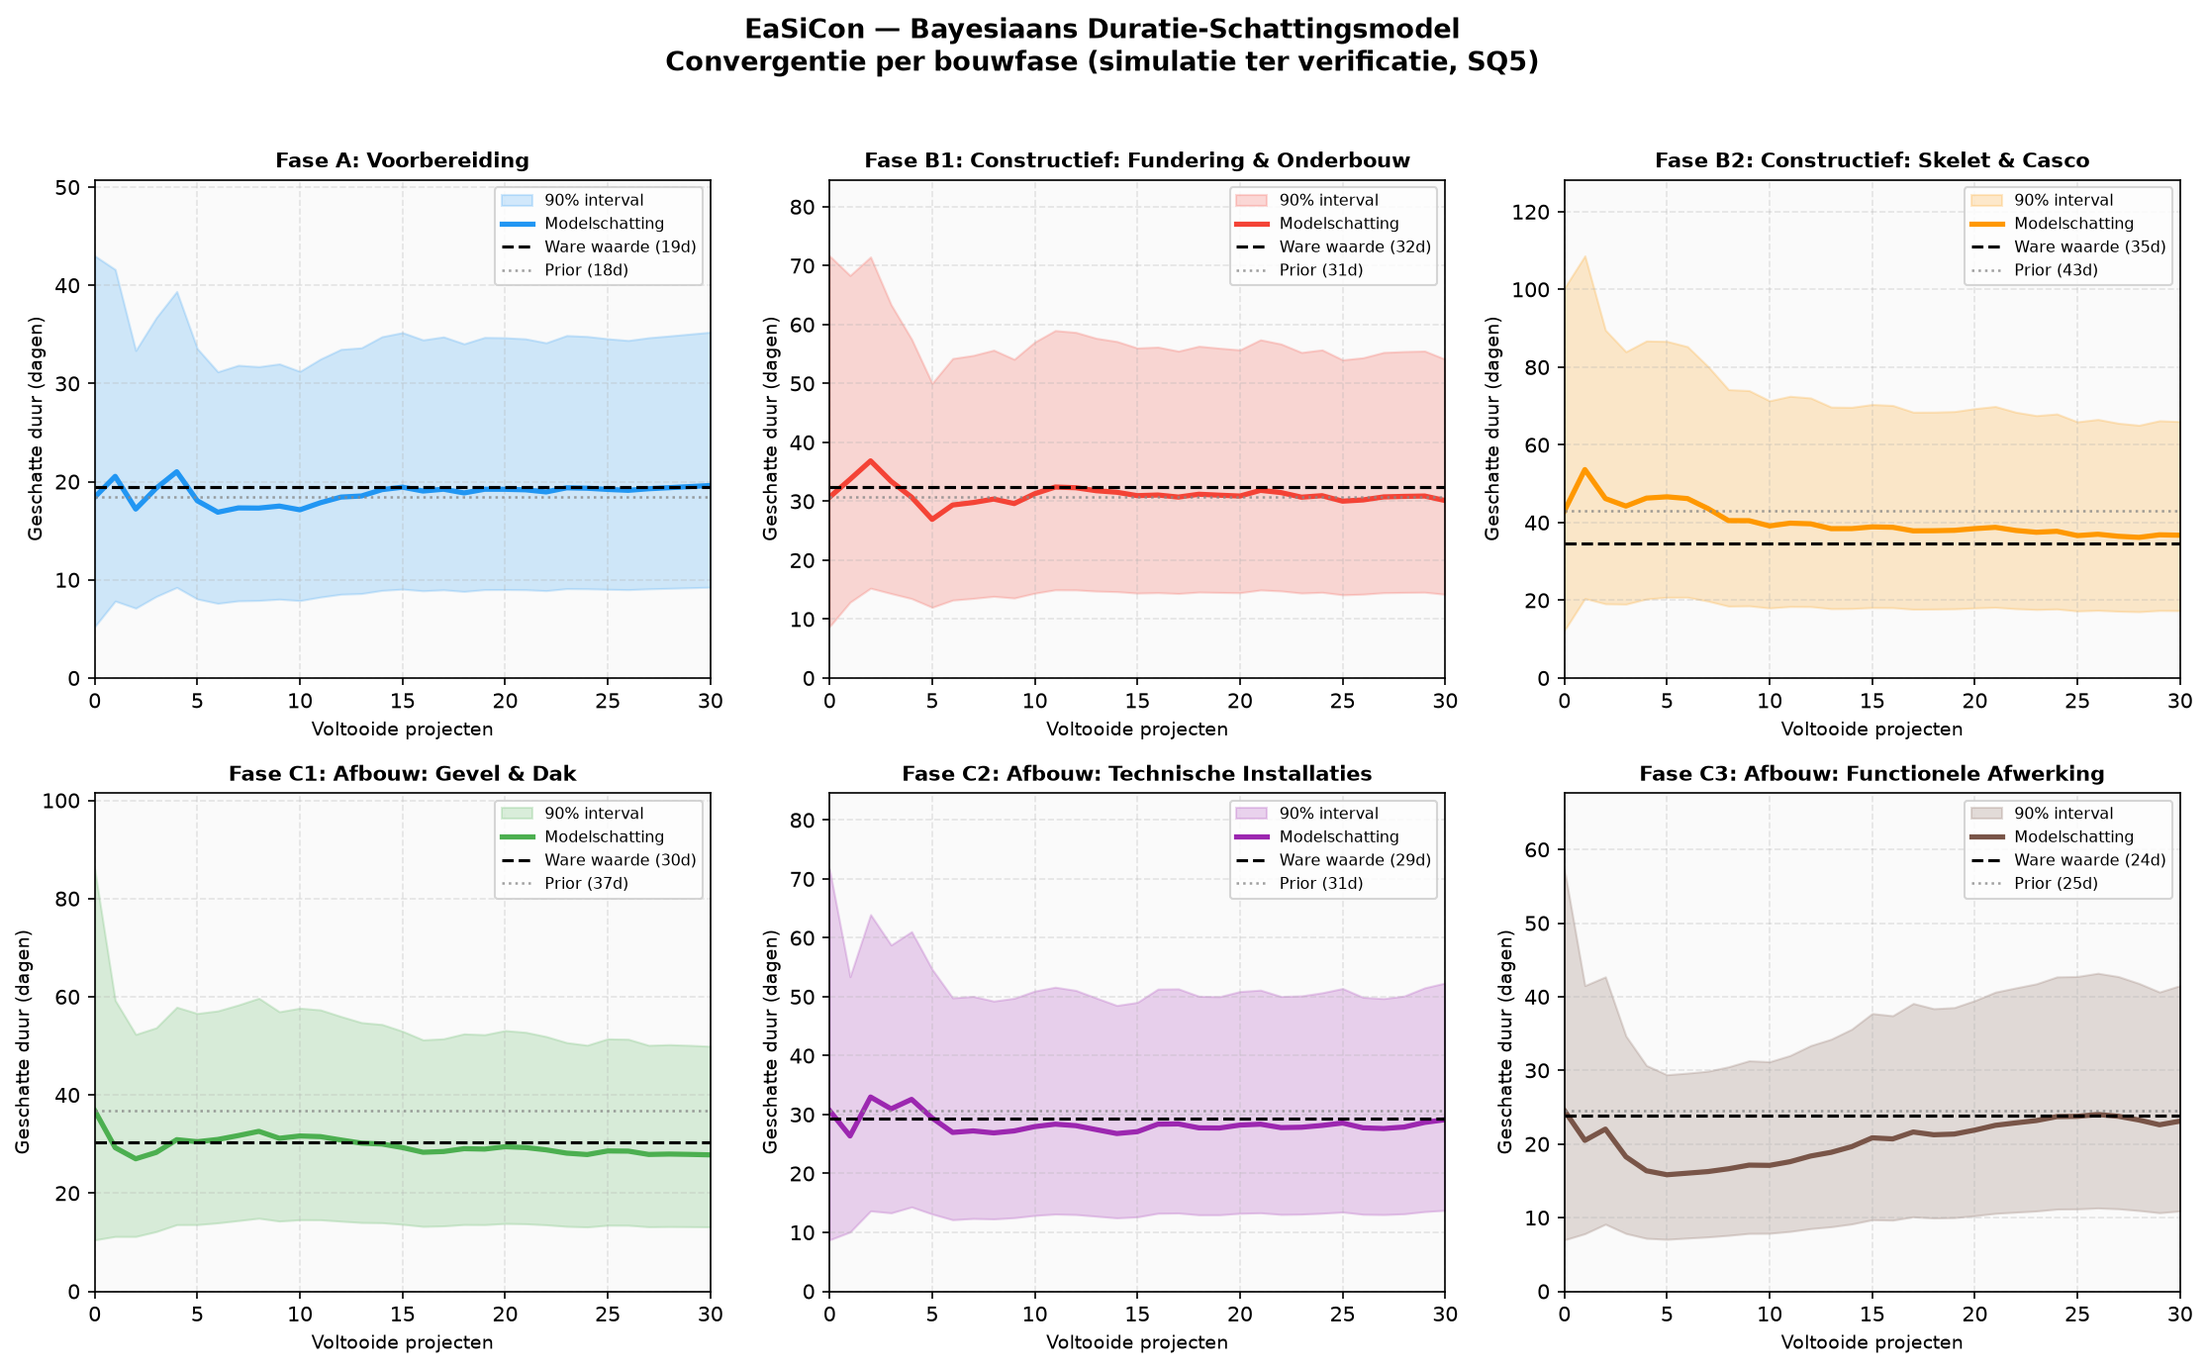
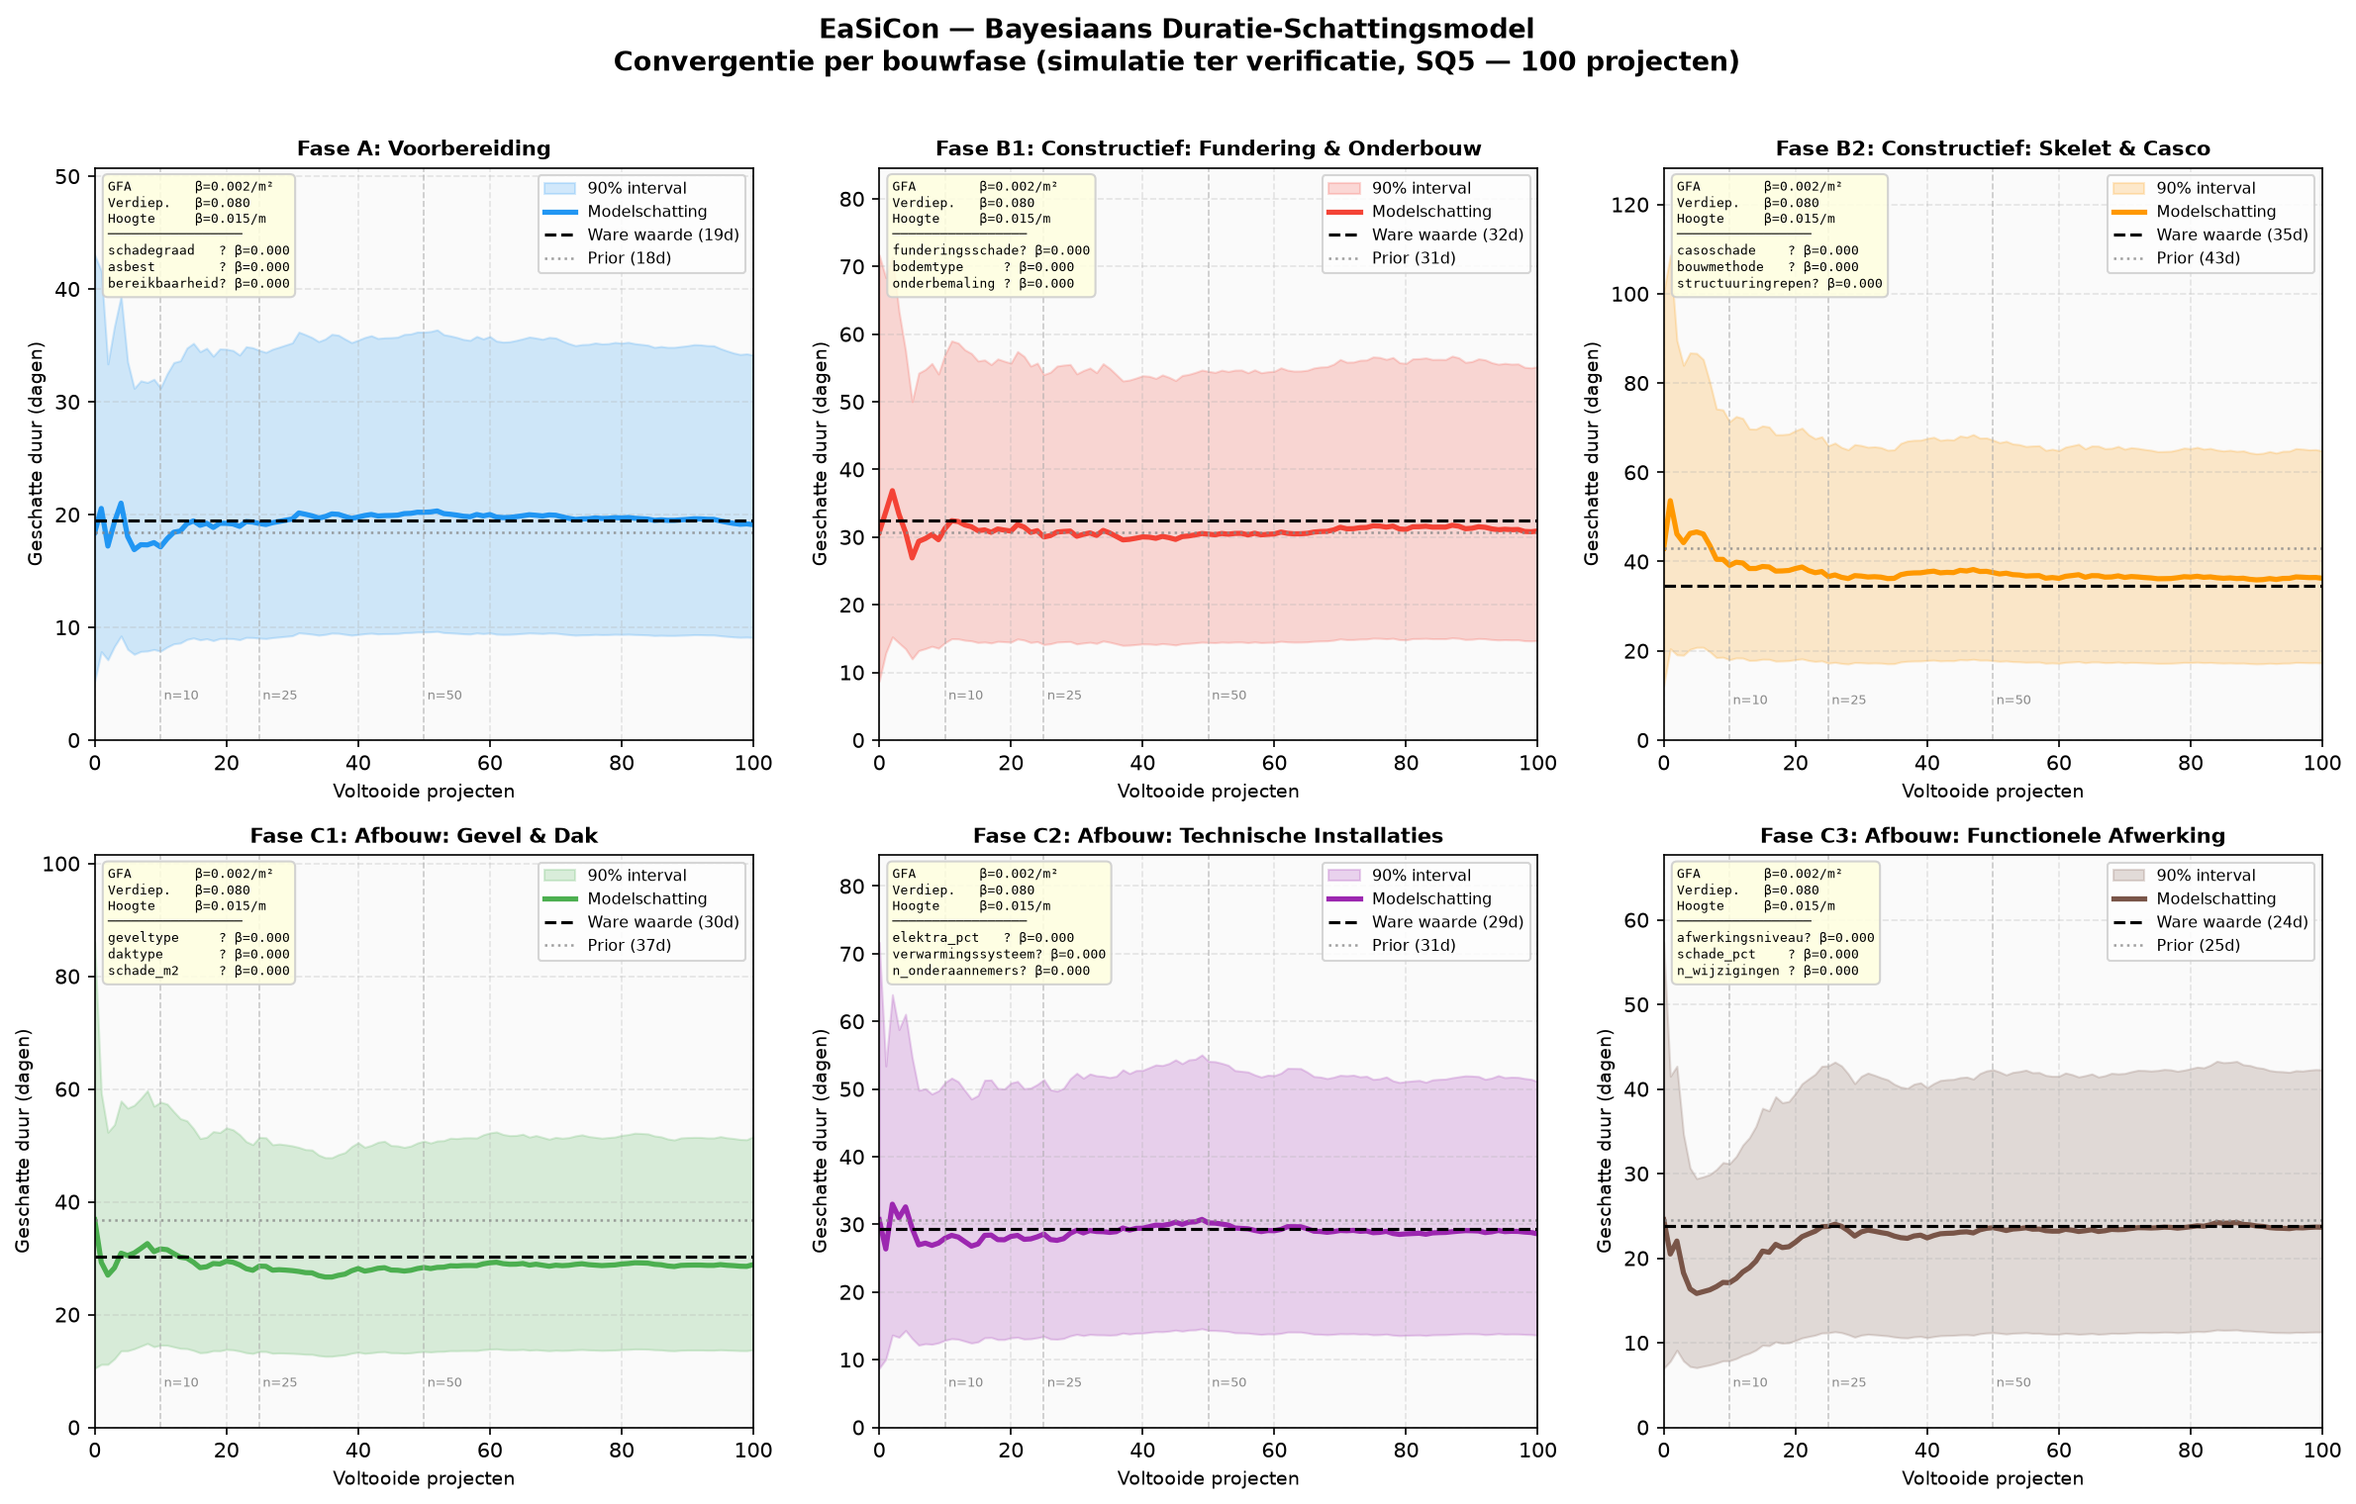
auto-save

diff --git a/easicon_model.py b/easicon_model.py
@@ -15,9 +15,10 @@ Theorie (zie thesis H6, Kim & Reinschmidt 2009, Gelman et al. 2013):
 
 Gebruik : python easicon_model.py
 Output  :
-  1. Tabel — huidige schatting per fase in dagen
+  1. Tabel — huidige schatting per fase in dagen, incl. covariaten
   2. TODO-lijst — openstaande punten na interviews
-  3. easicon_resultaten.png — convergentiegrafiek per fase (SQ5-verificatie)
+  3. easicon_resultaten.png  — convergentiegrafiek per fase (100 projecten)
+  4. easicon_zekerheid.png   — zekerheidstoename per fase (tau + intervalsbreedte)
 
 Fases (NEN 2574 + Flapper 2005):
   A   Voorbereiding
@@ -28,9 +29,14 @@ Fases (NEN 2574 + Flapper 2005):
   C3  Afbouw: Functionele Afwerking
 """
 
+import sys
 import numpy as np
 from scipy import stats
 import matplotlib.pyplot as plt
+
+# Zorg dat de Windows-console UTF-8 uitvoert (box-tekens, β, enz.)
+if sys.stdout.encoding and sys.stdout.encoding.lower() != "utf-8":
+    sys.stdout.reconfigure(encoding="utf-8")
 
 # ==============================================================================
 # SECTIE 1: INSTELLINGEN
@@ -329,7 +335,7 @@ def simuleer_projecten(ware_mu, sigma, n, seed=42):
     return np.exp(rng.normal(loc=ware_mu, scale=sigma, size=n))
 
 
-def voer_convergentie_experiment_uit(model, ware_mu, sigma, n_projecten=30, seed=42):
+def voer_convergentie_experiment_uit(model, ware_mu, sigma, n_projecten=100, seed=42):
     """
     Voert het convergentie-experiment uit voor één fase.
 
@@ -347,17 +353,18 @@ def voer_convergentie_experiment_uit(model, ware_mu, sigma, n_projecten=30, seed
 
     Returns
     -------
-    dict met sleutels 'verwacht', 'lower', 'upper', 'ware_duur'
+    dict met sleutels 'verwacht', 'lower', 'upper', 'tau', 'ware_duur'
     """
     model.reset()
 
-    verwacht_lijst, lower_lijst, upper_lijst = [], [], []
+    verwacht_lijst, lower_lijst, upper_lijst, tau_lijst = [], [], [], []
 
     # Schatting vóór enige observatie (= prior)
     v, l, u = model.voorspel()
     verwacht_lijst.append(v)
     lower_lijst.append(l)
     upper_lijst.append(u)
+    tau_lijst.append(model.tau_n)
 
     # Update na elk gesimuleerd project
     for duur in simuleer_projecten(ware_mu, sigma, n_projecten, seed=seed):
@@ -366,28 +373,31 @@ def voer_convergentie_experiment_uit(model, ware_mu, sigma, n_projecten=30, seed
         verwacht_lijst.append(v)
         lower_lijst.append(l)
         upper_lijst.append(u)
+        tau_lijst.append(model.tau_n)
 
     return {
         "verwacht":  np.array(verwacht_lijst),
         "lower":     np.array(lower_lijst),
         "upper":     np.array(upper_lijst),
+        "tau":       np.array(tau_lijst),
         "ware_duur": np.exp(ware_mu + sigma**2 / 2),
     }
 
 
 # ==============================================================================
-# SECTIE 4: GRAFIEK
+# SECTIE 4: GRAFIEKEN
 # ==============================================================================
 
-def maak_convergentiegrafiek(modellen, n_projecten=30, bestandsnaam="easicon_resultaten.png"):
+def maak_convergentiegrafiek(modellen, n_projecten=100, bestandsnaam="easicon_resultaten.png"):
     """
-    Maakt convergentiegrafiek: 2×3 subplots, één per fase.
+    Maakt convergentiegrafiek: 2×3 subplots, één per fase (100 projecten).
 
     Per subplot:
-      - Gekleurde lijn  : schatting van het model na elk project
-      - Gekleurd vlak   : 90% predictie-interval
-      - Zwart gestippeld: de 'ware' waarde (target voor convergentie)
-      - Grijs gestippeld: initiële prior-schatting
+      - Gekleurde lijn    : schatting van het model na elk project
+      - Gekleurd vlak     : 90% predictie-interval
+      - Zwart gestippeld  : de 'ware' waarde (target voor convergentie)
+      - Grijs gestippeld  : initiële prior-schatting
+      - Tekstvak rechts   : covariaten van de fase met beta-waarden
 
     Parameters
     ----------
@@ -395,14 +405,16 @@ def maak_convergentiegrafiek(modellen, n_projecten=30, bestandsnaam="easicon_res
     n_projecten   : int — aantal projecten in de simulatie
     bestandsnaam  : str — pad voor de opgeslagen afbeelding
     """
-    fig, assen = plt.subplots(2, 3, figsize=(15, 9))
+    fig, assen = plt.subplots(2, 3, figsize=(16, 10))
     assen = assen.flatten()
 
     fig.suptitle(
         "EaSiCon — Bayesiaans Duratie-Schattingsmodel\n"
-        "Convergentie per bouwfase (simulatie ter verificatie, SQ5)",
-        fontsize=13, fontweight="bold", y=1.02,
+        f"Convergentie per bouwfase (simulatie ter verificatie, SQ5 — {n_projecten} projecten)",
+        fontsize=13, fontweight="bold", y=1.01,
     )
+
+    milestones = [10, 25, 50]  # markeer deze projectaantallen met een streepje
 
     for i, (fase_code, model) in enumerate(modellen.items()):
         ax     = assen[i]
@@ -435,6 +447,33 @@ def maak_convergentiegrafiek(modellen, n_projecten=30, bestandsnaam="easicon_res
         ax.axhline(prior_duur, color="#888888", linestyle=":",
                    linewidth=1.2, alpha=0.8, label=f"Prior ({prior_duur:.0f}d)")
 
+        # Milestone-markers
+        for m in milestones:
+            if m <= n_projecten:
+                ax.axvline(m, color="#AAAAAA", linestyle="--", linewidth=0.8, alpha=0.6)
+                ax.text(m + 0.5, ax.get_ylim()[0] if ax.get_ylim()[0] > 0 else 1,
+                        f"n={m}", fontsize=6, color="#888888", va="bottom")
+
+        # Covariaten-tekstvak (linksboven)
+        factoren = config.get("fase_specifieke_factoren", {})
+        cov_regels = [
+            f"GFA        β={BETA_GFA:.3f}/m²",
+            f"Verdiep.   β={BETA_VERDIEPINGEN:.3f}",
+            f"Hoogte     β={BETA_HOOGTE:.3f}/m",
+            "─────────────────",
+        ]
+        for naam_f, coeff in factoren.items():
+            markering = "?" if coeff == 0.0 else " "
+            cov_regels.append(f"{naam_f:<14}{markering} β={coeff:.3f}")
+        cov_tekst = "\n".join(cov_regels)
+        ax.text(
+            0.02, 0.98, cov_tekst,
+            transform=ax.transAxes, fontsize=6.2,
+            verticalalignment="top", fontfamily="monospace",
+            bbox=dict(boxstyle="round,pad=0.4", facecolor="lightyellow",
+                      edgecolor="#CCCCCC", alpha=0.85),
+        )
+
         ax.set_title(f"Fase {fase_code}: {config['naam']}", fontsize=10, fontweight="bold")
         ax.set_xlabel("Voltooide projecten", fontsize=9)
         ax.set_ylabel("Geschatte duur (dagen)", fontsize=9)
@@ -453,27 +492,129 @@ def maak_convergentiegrafiek(modellen, n_projecten=30, bestandsnaam="easicon_res
     print(f"\n  Grafiek opgeslagen: {bestandsnaam}")
 
 
+def maak_onzekerheidsgrafiek(modellen, n_projecten=100, bestandsnaam="easicon_zekerheid.png"):
+    """
+    Toont hoe de zekerheid per fase toeneemt na 0–100 projecten.
+
+    Twee panelen:
+      Links  — tau_n (posterior std op log-schaal): daalt naarmate meer
+               projecten worden geobserveerd. Alle fases starten op tau_0 = 0.5.
+      Rechts — 90%-intervalsbreedte in dagen (upper − lower): vertaalt tau_n
+               naar meetbare onzekerheid voor planners.
+
+    Parameters
+    ----------
+    modellen     : dict {fase_code: BayesianesFaseModel}
+    n_projecten  : int — simulatielengte
+    bestandsnaam : str — pad voor de opgeslagen afbeelding
+    """
+    fig, (ax_tau, ax_breedte) = plt.subplots(1, 2, figsize=(14, 6))
+
+    fig.suptitle(
+        f"EaSiCon — Zekerheidstoename per bouwfase ({n_projecten} projecten)\n"
+        "Links: tau_n (onzekerheid op mu, log-schaal) · "
+        "Rechts: 90%-intervalsbreedte (dagen)",
+        fontsize=12, fontweight="bold",
+    )
+
+    # Markeer n=10, 25, 50 in beide panelen
+    milestones = [10, 25, 50]
+
+    for i, (fase_code, model) in enumerate(modellen.items()):
+        config = FASE_INSTELLINGEN[fase_code]
+        kleur  = config["kleur"]
+        label  = f"{fase_code}: {config['naam']}"
+
+        resultaat = voer_convergentie_experiment_uit(
+            model, config["ware_mu"], SIGMA_LOG, n_projecten, seed=42 + i
+        )
+
+        x             = np.arange(n_projecten + 1)
+        tau           = resultaat["tau"]
+        breedte       = resultaat["upper"] - resultaat["lower"]
+
+        ax_tau.plot(x, tau, color=kleur, linewidth=2.2, label=label)
+        ax_breedte.plot(x, breedte, color=kleur, linewidth=2.2, label=label)
+
+        # Annoteer eindwaarde (n=100)
+        ax_tau.annotate(
+            f"{tau[-1]:.3f}",
+            xy=(n_projecten, tau[-1]),
+            fontsize=6.5, color=kleur,
+            xytext=(3, 0), textcoords="offset points", va="center",
+        )
+        ax_breedte.annotate(
+            f"{breedte[-1]:.0f}d",
+            xy=(n_projecten, breedte[-1]),
+            fontsize=6.5, color=kleur,
+            xytext=(3, 0), textcoords="offset points", va="center",
+        )
+
+        model.reset()
+
+    for ax in (ax_tau, ax_breedte):
+        for m in milestones:
+            ax.axvline(m, color="#CCCCCC", linestyle="--", linewidth=0.9)
+            ax.text(m + 0.5, ax.get_ylim()[0] if ax.get_ylim()[0] > 0 else 0,
+                    f"n={m}", fontsize=6.5, color="#999999", va="bottom")
+        ax.set_xlabel("Voltooide projecten", fontsize=10)
+        ax.legend(fontsize=7.5, loc="upper right")
+        ax.grid(True, alpha=0.3, linestyle="--")
+        ax.set_facecolor("#FAFAFA")
+        ax.set_xlim(0, n_projecten)
+
+    ax_tau.set_title("tau_n — onzekerheid op μ (log-schaal)", fontsize=11, fontweight="bold")
+    ax_tau.set_ylabel("tau_n  (std van posterior op log-schaal)", fontsize=10)
+    ax_tau.set_ylim(bottom=0)
+
+    ax_breedte.set_title("90%-intervalsbreedte (dagen)", fontsize=11, fontweight="bold")
+    ax_breedte.set_ylabel("Upper − Lower  (dagen)", fontsize=10)
+    ax_breedte.set_ylim(bottom=0)
+
+    plt.tight_layout()
+    plt.savefig(bestandsnaam, dpi=150, bbox_inches="tight")
+    plt.close()
+    print(f"  Grafiek opgeslagen: {bestandsnaam}")
+
+
 # ==============================================================================
 # SECTIE 5: TEKSTOUTPUT
 # ==============================================================================
 
 def print_schattingstabel(modellen):
-    """Print overzichtstabel met huidige schattingen per fase (prior-stand)."""
-    breedte = 74
+    """Print overzichtstabel met huidige schattingen + covariaten per fase."""
+    breedte = 82
     print("\n" + "=" * breedte)
     print("  EaSiCon — Huidige faseschattingen  (prior, vóór projectdata)")
     print("=" * breedte)
-    print(f"  {'Fase':<5} {'Naam':<38} {'Verwacht':>9} {'90%-interval':>18}")
+    print(f"  {'Fase':<5} {'Naam':<36} {'Verwacht':>9} {'90%-interval':>20}")
     print("-" * breedte)
 
     for fase_code, model in modellen.items():
-        naam = FASE_INSTELLINGEN[fase_code]["naam"]
+        config = FASE_INSTELLINGEN[fase_code]
+        naam   = config["naam"]
         v, l, u = model.voorspel()
-        print(f"  {fase_code:<5} {naam:<38} {v:>7.1f}d  [{l:>5.1f} – {u:>6.1f}d]")
+        print(f"  {fase_code:<5} {naam:<36} {v:>7.1f}d  [{l:>5.1f} – {u:>6.1f}d]")
+
+        # Algemene covariaten
+        print(f"  {'':>5}  ├─ Algemeen :  "
+              f"GFA β={BETA_GFA:.3f}/m²  |  "
+              f"Verdiep. β={BETA_VERDIEPINGEN:.2f}  |  "
+              f"Hoogte β={BETA_HOOGTE:.3f}/m")
+
+        # Fase-specifieke covariaten
+        factoren = config.get("fase_specifieke_factoren", {})
+        items    = list(factoren.items())
+        for j, (naam_f, coeff) in enumerate(items):
+            prefix  = "  └─" if j == len(items) - 1 else "  ├─"
+            todo    = "  ← !! TODO" if coeff == 0.0 else ""
+            print(f"  {'':>5} {prefix} {naam_f:<22}  β = {coeff:+.4f}{todo}")
+        print()
 
     print("-" * breedte)
     print("  * Alle waarden zijn PLACEHOLDERS op basis van literatuurschattingen.")
     print("    Vervang mu_0 en tau_0 per fase na expert-interviews (zie TODO's).")
+    print("    β = 0.0000 betekent: coëfficiënt nog niet ingesteld (TODO).")
     print("=" * breedte)
 
 
@@ -502,7 +643,7 @@ def print_todo_lijst():
         },
         {
             "nr": 3,
-            "wat": "Fase-specifieke covariaten invullen (3 per fase, nu alle 0.0)",
+            "wat": "Fase-specifieke covariaten invullen (3 per fase, nu alle β=0.0)",
             "hoe": (
                 'Stel per fase: "Welke 3 projectkenmerken bepalen het meest\n'
                 "         hoe lang fase X duurt?\" Stel coëfficiënten in op basis\n"
@@ -537,10 +678,10 @@ def print_todo_lijst():
                 "Voer uit nadat echte priors zijn ingesteld:\n"
                 "         (a) Convergentie: daalt tau_n na elk project?\n"
                 "         (b) Correctie: corrigeert model een bewust foute prior?\n"
-                "         (c) Stabilisatie: wordt schatting stabieler na ~20 projecten?\n"
-                "         -> Grafiek easicon_resultaten.png toont dit al voor placeholders."
+                "         (c) Stabilisatie: wordt schatting stabieler na ~20–50 projecten?\n"
+                "         -> easicon_resultaten.png + easicon_zekerheid.png tonen dit."
             ),
-            "locatie": "voer_convergentie_experiment_uit()  /  easicon_resultaten.png",
+            "locatie": "voer_convergentie_experiment_uit()  /  beide PNG-bestanden",
         },
         {
             "nr": 7,
@@ -574,6 +715,8 @@ def print_todo_lijst():
 # ==============================================================================
 
 def main():
+    N_PROJECTEN = 100  # simulatielengte voor beide grafieken
+
     print("\nEaSiCon Bayesiaans Duratie-Schattingsmodel")
     print("Gijs Meijers (4957822) | TU Delft x Haskoning | 2026")
 
@@ -589,17 +732,22 @@ def main():
         for code, cfg in FASE_INSTELLINGEN.items()
     }
 
-    # 1. Tabel met huidige schattingen (prior-stand)
+    # 1. Tabel met huidige schattingen + covariaten (prior-stand)
     print_schattingstabel(modellen)
 
     # 2. Openstaande TODO's
     print_todo_lijst()
 
-    # 3. Convergentiegrafiek (simulatie ter verificatie)
-    print("  Grafiek wordt aangemaakt...")
-    maak_convergentiegrafiek(modellen, n_projecten=30)
+    # 3. Convergentiegrafiek met covariaat-annotaties (100 projecten)
+    print("  Grafieken worden aangemaakt...")
+    maak_convergentiegrafiek(modellen, n_projecten=N_PROJECTEN)
 
-    print("Klaar. Controleer easicon_resultaten.png voor de convergentieplots.")
+    # 4. Zekerheidstoename-grafiek (tau + intervalsbreedte over 100 projecten)
+    maak_onzekerheidsgrafiek(modellen, n_projecten=N_PROJECTEN)
+
+    print("\nKlaar.")
+    print("  easicon_resultaten.png — convergentie per fase (incl. covariaten)")
+    print("  easicon_zekerheid.png  — zekerheidstoename over 100 projecten")
     print()
 
 
